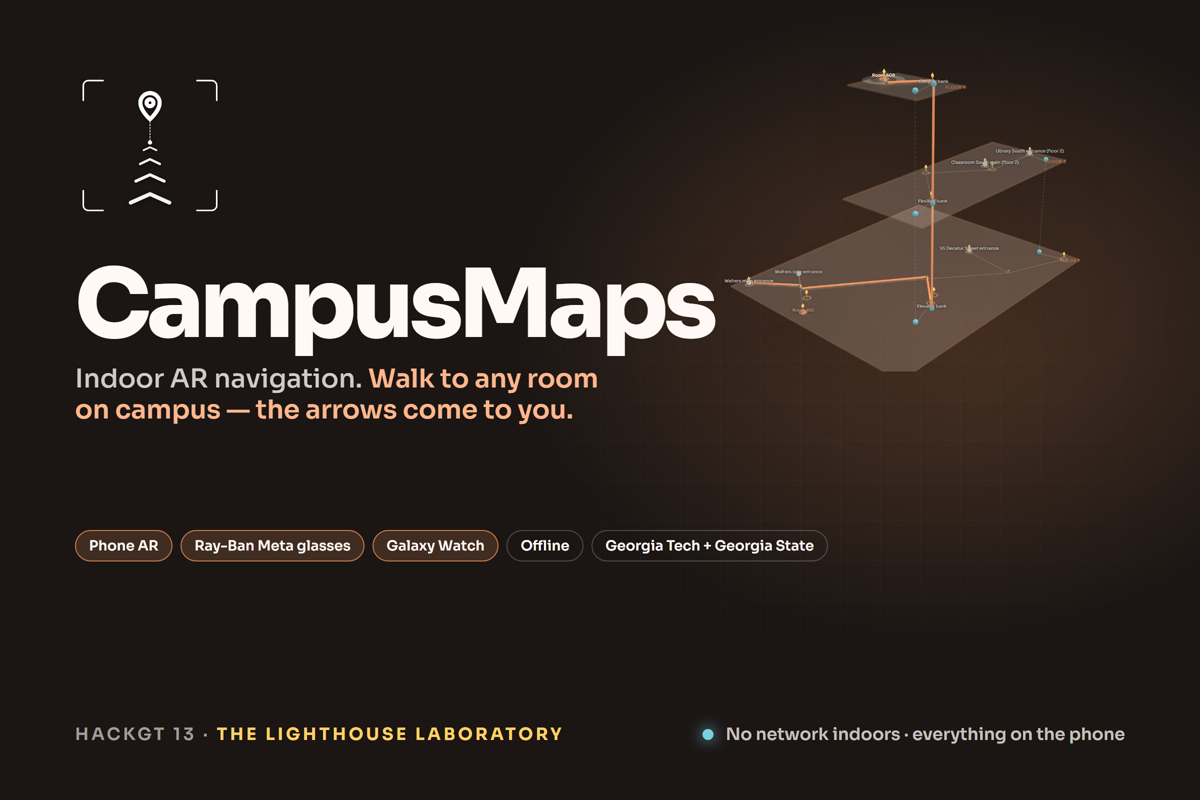
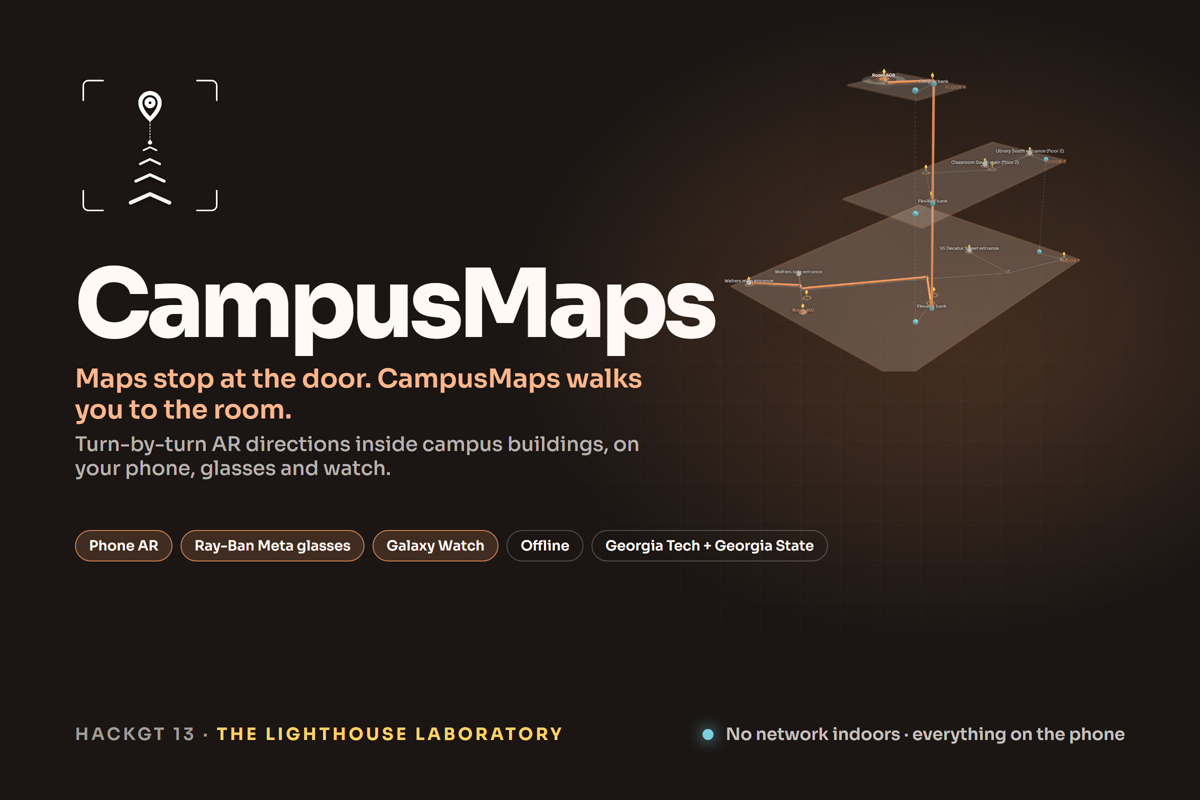
promo: new tagline (maps stop at the door), no em dashes

Changed region(s): [[0.0617, 0.4375, 0.555, 0.5938]]

diff --git a/promo/deck/index.html b/promo/deck/index.html
@@ -3,7 +3,7 @@
 <head>
 <meta charset="utf-8">
 <meta http-equiv="Cache-Control" content="no-cache, no-store, must-revalidate">
-<title>CampusMaps — HackGT 13</title>
+<title>CampusMaps, HackGT 13</title>
 <meta name="viewport" content="width=device-width, initial-scale=1">
 <link rel="stylesheet" href="vendor/reveal.css">
 <link rel="icon" href="data:,">
@@ -113,7 +113,7 @@ ul.big li small{display:block;font-size:20px;color:var(--mute);margin-top:2px}
 <!-- 1 Title -->
 <section class="title" data-transition="fade-in zoom-out">
   <video id="logo" src="media/logo.webm" muted playsinline preload="auto"></video>
-  <p class="claim" style="text-align:center;max-width:none;margin-top:-30px">Walk to any room on campus. The arrows come to you.</p>
+  <p class="claim" style="text-align:center;max-width:none;margin-top:-30px">Maps stop at the door. CampusMaps walks you to the room.</p>
   <p class="meta">HackGT 13 · <b>The Lighthouse Laboratory</b> (Immersive) · Uyiosa Nehikhuere &amp; Raphael Omorose</p>
   <aside class="notes">Press → to replay the logo. Everything indoors runs on the phone with no network.</aside>
 </section>
@@ -238,7 +238,7 @@ ul.big li small{display:block;font-size:20px;color:var(--mute);margin-top:2px}
     <div>
       <h2>Look, then listen.</h2>
       <ul class="big">
-        <li>Ray-Ban Meta Gen 2 camera bursts<small>2–3 stills in ~2 s, then speech — camera and mic never overlap</small></li>
+        <li>Ray-Ban Meta Gen 2 camera bursts<small>2–3 stills in ~2 s, then speech, camera and mic never overlap</small></li>
         <li>Sign OCR + image anchors on the phone<small>ML Kit, everything offline</small></li>
         <li>Voice cached per sentence<small>ElevenLabs, phone TTS as fallback</small></li>
       </ul>

diff --git a/promo/deck/js/explainer.js b/promo/deck/js/explainer.js
@@ -1,4 +1,4 @@
-// explainer.js — "How CampusMaps works" in five chapters, built for a transparent 1920x1080 video overlay.
+// explainer.js, "How CampusMaps works" in five chapters, built for a transparent 1920x1080 video overlay.
 // Pure SVG + global gsap. Everything runs on ONE finite, paused gsap timeline (virtual-clock safe:
 // no setTimeout, no Date, no CSS animation, no infinite repeats, no randomness).
 // Contract: mount(el, opts) -> { play(), pause(), destroy(), seek(s), duration }
@@ -286,7 +286,7 @@ export function mount(el, opts = {}) {
   }
 
   // ================================================================ CHAPTER 2: Dijkstra with time
-  CH[1] = chapter(1, 'Dijkstra picks the route — with time in it.',
+  CH[1] = chapter(1, 'Dijkstra picks the route, with time in it.',
     ['The router weighs every entrance, stairs versus elevator,', 'and which doors need a card right now.'],
     ['pure Kotlin core', 'entrance × stairs/elevator', 'PantherCard hours', 'now is a parameter', '45 tests']);
   const c2 = { rings: {}, lit: {} };
@@ -395,7 +395,7 @@ export function mount(el, opts = {}) {
 
   // ================================================================ CHAPTER 4: AR arrows
   CH[3] = chapter(3, 'Arrows on the floor.',
-    ['World-locked, metre-wide arrows through the phone camera.', 'Everything on-device — no network.'],
+    ['World-locked, metre-wide arrows through the phone camera.', 'Everything on-device, no network.'],
     ['ARCore 1.56', 'SceneView 4.38', 'Jetpack Compose', 'CameraX']);
   const c4 = { chevs: [] };
   const HZ = 430, NEARY = 700, VPX = 630;

diff --git a/promo/cover/cover.html b/promo/cover/cover.html
@@ -17,8 +17,9 @@ html,body{margin:0;background:#1b1614}
 .mark img{width:100%;display:block}
 .word{position:absolute;left:150px;top:520px}
 .word h1{margin:0;font-weight:800;font-size:190px;letter-spacing:-.045em;line-height:.95}
-.word p{margin:26px 0 0;font-size:52px;font-weight:500;color:rgba(255,248,244,.8);max-width:1100px;line-height:1.2}
+.word p{margin:26px 0 0;font-size:52px;font-weight:500;color:rgba(255,248,244,.8);max-width:1150px;line-height:1.2}
 .word p b{color:#ffb68c;font-weight:600}
+.word p span{display:block;font-size:40px;margin-top:14px;color:rgba(255,248,244,.7)}
 .tag{position:absolute;left:150px;top:1060px;display:flex;gap:16px;flex-wrap:nowrap}
 .tag span{border:2px solid rgba(255,255,255,.22);border-radius:999px;padding:12px 26px;font-size:28px;font-weight:600;color:#fff8f4}
 .tag span.on{border-color:#c67c4e;background:rgba(198,124,78,.22)}
@@ -35,7 +36,7 @@ html,body{margin:0;background:#1b1614}
   <div class="mark"><img src="mark.png" alt=""></div>
   <div class="word">
     <h1>CampusMaps</h1>
-    <p>Indoor AR navigation. <b>Walk to any room on campus — the arrows come to you.</b></p>
+    <p><b>Maps stop at the door. CampusMaps walks you to the room.</b><br><span>Turn-by-turn AR directions inside campus buildings, on your phone, glasses and watch.</span></p>
   </div>
   <div class="tag">
     <span class="on">Phone AR</span><span class="on">Ray-Ban Meta glasses</span><span class="on">Galaxy Watch</span>

diff --git a/promo/deck/js/doors.js b/promo/deck/js/doors.js
@@ -57,7 +57,7 @@ export function doorsModule(root) {
   // Naive line: straight to the nearest door (Main), then a dead end.
   const naive = el('path', { d: 'M150 330 L420 150', fill: 'none', stroke: 'rgba(255,255,255,.55)', 'stroke-width': 4, 'stroke-dasharray': '10 12', 'stroke-linecap': 'round' }, svg);
   const naiveX = el('text', { x: 300, y: 215, fill: 'rgba(255,255,255,.7)', 'font-size': 20, 'text-anchor': 'middle', opacity: 0 }, svg);
-  naiveX.textContent = '“closest door” — card-only after 8 PM';
+  naiveX.textContent = '“closest door”, card-only after 8 PM';
   // Real route: West door, corridor, elevator, up, 608.
   const real = el('path', { d: 'M150 330 C 250 330, 330 285, 420 280 L 500 280 L 870 280 L 870 300 L 870 380 L 1000 380 L 1080 380 L 1080 400', fill: 'none', stroke: '#c67c4e', 'stroke-width': 8, 'stroke-linecap': 'round', 'stroke-linejoin': 'round' }, svg);
   const head = el('circle', { r: 9, fill: '#fff', opacity: 0 }, svg);

diff --git a/promo/deck/js/pathfind.js b/promo/deck/js/pathfind.js
@@ -1,4 +1,4 @@
-// pathfind.js — canvas-2D Dijkstra frontier player on a building-like grid.
+// pathfind.js, canvas-2D Dijkstra frontier player on a building-like grid.
 // Contract: mount(el, opts) -> { play(), pause(), destroy() }
 // Act 1: search from outside, trace route via Main entrance + elevator to 608.
 // Act 2: clock scrubs to Sat 21:00, Main goes card-only, search re-runs, route swings to West + stairs.
@@ -103,7 +103,7 @@ function dijkstra(blocked) {
   const openStep = new Int32Array(N).fill(-1);
   const closeStep = new Int32Array(N).fill(-1);
   const open = new Set([START]);
-  const iters = []; // {current, opened:[...]} — closed/open sets are derived from openStep/closeStep
+  const iters = []; // {current, opened:[...]}, closed/open sets are derived from openStep/closeStep
   dist[START] = 0; openStep[START] = 0;
   while (open.size) {
     let cur = -1, best = Infinity;

diff --git a/promo/deck/js/arch.js b/promo/deck/js/arch.js
@@ -1,4 +1,4 @@
-// arch.js — "How it works" in three beats: Pick a room -> Walk -> Hands-free.
+// arch.js, "How it works" in three beats: Pick a room -> Walk -> Hands-free.
 // Inline SVG, GSAP + MotionPathPlugin globals.
 // Contract: mount(el, opts) -> { play(), pause(), destroy(), seek(s) }
 

diff --git a/promo/DEMO-SCRIPT.md b/promo/DEMO-SCRIPT.md
@@ -1,4 +1,4 @@
-# CampusMaps — demo video script
+# CampusMaps, demo video script
 
 Target length about 2:30. Voiceover lines are written to be read at a normal pace; each block
 lists what is on screen and which overlay to drop on top. Overlays are the transparent clips in
@@ -28,16 +28,16 @@ you need greyed out or a stairwell, (4) a door with a PantherCard reader. Last b
 > CampusMaps takes you the rest of the way.
 
 Alternates, same cuts:
-- **B:** "Maps stops at the door. Inside: same hallways, wrong floor, locked door. Late for class — again. CampusMaps takes you to the room."
+- **B:** "Maps stops at the door. Inside: same hallways, wrong floor, locked door. Late for class, again. CampusMaps takes you to the room."
 - **C:** "I found the building. I still couldn't find the room. Every corridor looks the same, and the closest door only opens with a card. That's the part nobody's mapped. CampusMaps did."
 
 ## 0:15 – 0:22 · The app in three taps
 
-**ON SCREEN:** the phone screen recording — campus picker, "Pick a building", "Where to?", tap
+**ON SCREEN:** the phone screen recording, campus picker, "Pick a building", "Where to?", tap
 Room 608. Speed to 2×.
 **TEXT:** "CampusMaps · Georgia Tech + Georgia State"
 **VO:**
-> Pick your campus, pick the building, say the room — and the arrows come to you.
+> Pick your campus, pick the building, say the room, and it walks you there, turn by turn.
 
 ## 0:22 – 0:45 · The building is a graph (Classroom South)
 
@@ -47,42 +47,42 @@ seconds, the route draws for three, then it orbits.
 **TEXT:** "Classroom South · 6 floors · 5 entrances · surveyed on foot"
 **VO:**
 > We walked every hallway ourselves. Every entrance, elevator, staircase and room becomes a
-> node with real distances, in metres, and real timings — how long the elevator actually waits,
+> node with real distances, in metres, and real timings, how long the elevator actually waits,
 > how long the stairs actually take.
 > Watch the route: in through Walters, along the corridor, up the elevator, straight to Room 608.
-> One minute twenty-seven. Not because we guessed — because we measured it.
+> One minute twenty-seven. Not because we guessed, because we measured it.
 
 ## 0:45 – 1:20 · How it works (the explainer)
 
 **ON SCREEN:** dark background with a subtle slow-moving shot behind it (a drone or a slow
-pan of the atrium at 25% opacity). Keep the base calm — the overlay is busy.
+pan of the atrium at 25% opacity). Keep the base calm, the overlay is busy.
 **OVERLAY:** `HowCampusMapsWorks-alpha.mov` (35 s). Five chapters, 7 s each. Read one paragraph
 per chapter; the clip holds for you.
 
-**VO — chapter 1 (0:45) "The building is a graph":**
+**VO, chapter 1 (0:45) "The building is a graph":**
 > Each building is a JSON graph. Nodes are doors, corners, elevators and rooms; edges are
 > hallways with the metres we walked. A validator checks every file before the app will load it.
 
-**VO — chapter 2 (0:52) "Dijkstra picks the route — with time in it":**
+**VO, chapter 2 (0:52) "Dijkstra picks the route, with time in it":**
 > Routing is Dijkstra, in a pure Kotlin core with forty-five tests. It tries every entrance,
-> stairs against the elevator, and it knows which doors need a PantherCard right now — the time
+> stairs against the elevator, and it knows which doors need a PantherCard right now, the time
 > of day is an input, never a surprise. Lock a door at nine PM and the route swings to the next one.
 
-**VO — chapter 3 (0:59) "Finding you":**
+**VO, chapter 3 (0:59) "Finding you":**
 > Localisation layers up. GPS gets you to campus. ARCore's Geospatial API locks the door to about
 > a metre. Inside, the door's measured heading and the compass place you; ML Kit reads room signs
 > and ARCore matches poster images for exact fixes; the barometer tells us which floor you're on.
 
-**VO — chapter 4 (1:06) "Arrows on the floor":**
+**VO, chapter 4 (1:06) "Arrows on the floor":**
 > Guidance is ARCore and SceneView in Jetpack Compose: metre-wide arrows anchored to the real
 > floor, an amber arrow at the next turn. All of it runs on the phone. No network indoors.
 
-**VO — chapter 5 (1:13) "Hands-free":**
+**VO, chapter 5 (1:13) "Hands-free":**
 > Put on the Ray-Ban Metas and the phone goes in your pocket. The glasses take a burst of stills,
-> the phone recognises the sign, the glasses speak the turn — camera and audio never overlap.
+> the phone recognises the sign, the glasses speak the turn, camera and audio never overlap.
 > Every step reaches the Galaxy Watch in under a second with its own haptic pattern.
 
-## 1:20 – 1:45 · Phone AR — the real walk
+## 1:20 – 1:45 · Phone AR, the real walk
 
 **ON SCREEN:** your phone AR screen recording in Classroom South (full-screen, real speed).
 Let the arrows and the "Room 608 is ahead" banner play without cutting.
@@ -94,22 +94,22 @@ Let the arrows and the "Room 608 is ahead" banner play without cutting.
 
 ## 1:45 – 2:02 · Glasses and watch
 
-**ON SCREEN:** split — glasses point-of-view / phone screen on the left, the watch on the right
+**ON SCREEN:** split, glasses point-of-view / phone screen on the left, the watch on the right
 (the wear screenshots or a wrist shot). Sound: keep the glasses' spoken instruction audible.
 **TEXT:** "Ray-Ban Meta Gen 2 · Galaxy Watch 8 Classic"
 **VO:**
-> Hands free, it's the same route. Look at a sign — the glasses tell you where to go next.
+> Hands free, it's the same route. Look at a sign, the glasses tell you where to go next.
 > And the watch buzzes: one tap for straight on, two for left, a long buzz when you've arrived.
 > You never look down.
 
-## 2:02 – 2:17 · Klaus (Georgia Tech) — it's not one building
+## 2:02 – 2:17 · Klaus (Georgia Tech), it's not one building
 
 **ON SCREEN:** dark background.
 **OVERLAY:** `Klaus-3D-spin-alpha.mov` (20 s, cut to 15).
 **TEXT:** "Klaus · Georgia Tech · floors 1 and 3 · same core, second campus"
 **VO:**
 > Same engine, different campus. Klaus at Georgia Tech, the Research Wing door up to the COEUS
-> lab on three. Adding a building is a survey walk and a JSON file — no servers, no beacons,
+> lab on three. Adding a building is a survey walk and a JSON file, no servers, no beacons,
 > nothing installed in the building.
 
 ## 2:17 – 2:30 · Close
@@ -118,7 +118,7 @@ Let the arrows and the "Room 608 is ahead" banner play without cutting.
 **OVERLAY:** `CampusMaps-logo-alpha.mov` again, or the last frame held.
 **TEXT:** "CampusMaps · HackGT 13 · The Lighthouse Laboratory · Uyiosa Nehikhuere & Raphael Omorose"
 **VO:**
-> CampusMaps. Walk to any room on campus, and the arrows come to you.
+> Maps stop at the door. CampusMaps walks you to the room.
 > Built in thirty-six hours at HackGT. Come walk with it.
 
 ---
